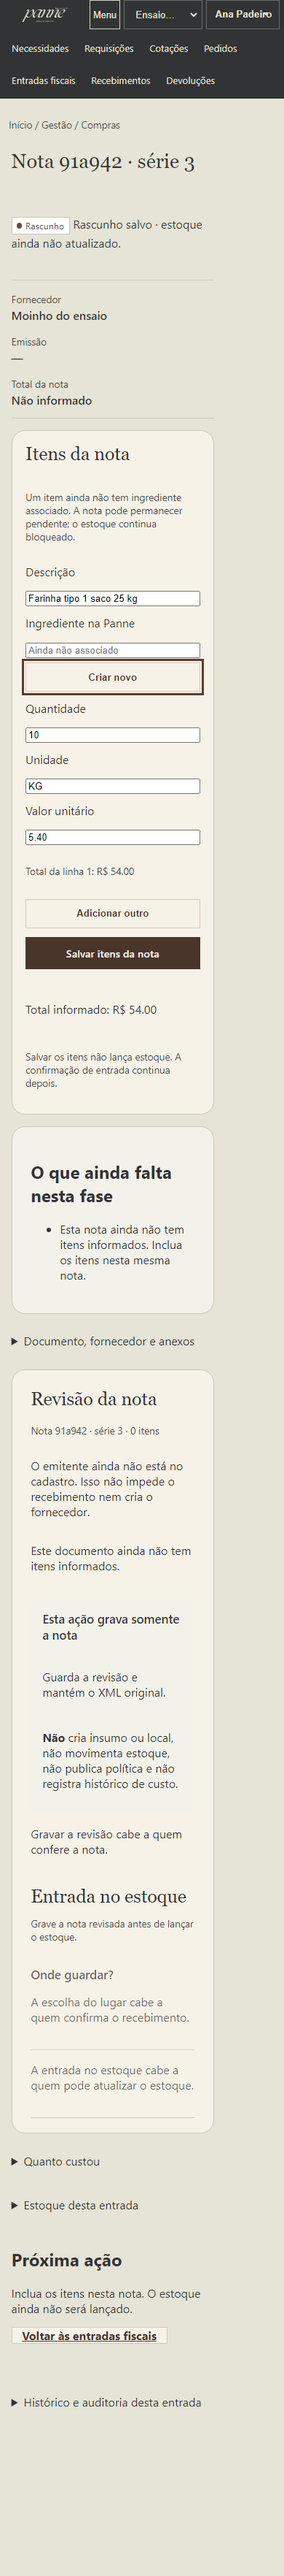
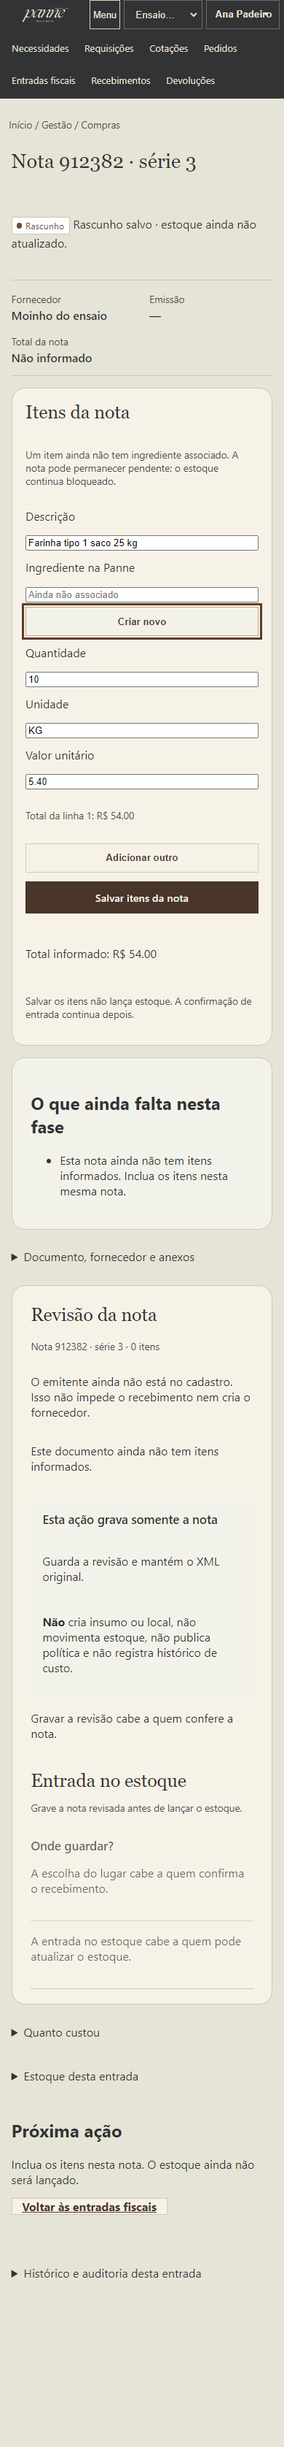
Give form routes without a FAB the full 390 column and keep new-ingredient actions on screen.

diff --git a/panne/frontend/src/styles/app.css b/panne/frontend/src/styles/app.css
@@ -2484,14 +2484,24 @@ tbody tr:focus-visible {
 
 .draft-ingredient-dialog__panel {
   width: min(100%, 28rem);
-  max-height: min(92vh, 40rem);
-  overflow: auto;
-  padding: 1rem 1.05rem 1.1rem;
+  max-height: min(92dvh, 40rem);
+  overflow: hidden;
+  padding: 0;
   background: var(--panne-creme);
   border: 1px solid var(--panne-espresso);
   color: var(--panne-grafite);
+  display: flex;
+  flex-direction: column;
+  min-height: 0;
+}
+
+.draft-ingredient-dialog__body {
+  flex: 1 1 auto;
+  min-height: 0;
+  overflow: auto;
   display: grid;
   gap: 0.75rem;
+  padding: 1rem 1.05rem 0.55rem;
 }
 
 .draft-ingredient-dialog__panel h3 {
@@ -2513,10 +2523,14 @@ tbody tr:focus-visible {
 }
 
 .draft-ingredient-dialog__actions {
+  flex: 0 0 auto;
   display: flex;
   flex-wrap: wrap;
   gap: 0.65rem;
   align-items: center;
+  padding: 0.7rem 1.05rem calc(0.85rem + env(safe-area-inset-bottom, 0px));
+  border-top: 1px solid var(--panne-linha);
+  background: var(--panne-creme);
 }
 
 @media (min-width: 900px) {
@@ -5430,6 +5444,12 @@ tbody tr:focus-visible {
 
 .shell-form > .main {
   padding-bottom: max(7.5rem, calc(env(safe-area-inset-bottom) + 6rem));
+}
+
+/* Sem FAB nesta rota: laterais iguais às do .main (~16 px em 390). Não reserva a coluna do Gigio. */
+.shell.shell-form > .main {
+  padding-left: max(clamp(0.75rem, 4vw, 5rem), env(safe-area-inset-left, 0px));
+  padding-right: max(clamp(0.75rem, 4vw, 5rem), env(safe-area-inset-right, 0px));
 }
 
 @media (max-width: 720px) {

diff --git a/panne/frontend/src/pages/NewIngredientDialog.tsx b/panne/frontend/src/pages/NewIngredientDialog.tsx
@@ -91,6 +91,7 @@ export function NewIngredientDialog({
         aria-labelledby={titleId}
         onClick={(event) => event.stopPropagation()}
       >
+        <div className="draft-ingredient-dialog__body">
         <h3 id={titleId}>Criar ingrediente</h3>
         {fiscalDescription.trim() ? (
           <p className="meta">Descrição nesta nota: {fiscalDescription.trim()}</p>
@@ -179,6 +180,7 @@ export function NewIngredientDialog({
             </ul>
           </div>
         ) : null}
+        </div>
 
         <div className="draft-ingredient-dialog__actions">
           <button type="button" className="ghost" onClick={onCancel}>

diff --git a/panne/frontend/src/insumo-manual-mobile-390.test.tsx b/panne/frontend/src/insumo-manual-mobile-390.test.tsx
@@ -57,6 +57,10 @@ describe("CSS do caminho manual não estica o viewport", () => {
       .match(/\.manual-path[\s\S]*?(?=\n\.estoque-util|\n@media \(max-width: 960px\))/);
     expect(manualCss?.[0] ?? "").not.toMatch(/overflow-wrap:\s*anywhere/);
     expect(css).toMatch(/\.estoque-util[\s\S]*?overflow-wrap:\s*break-word/);
+    expect(css).toMatch(
+      /\.shell\.shell-form\s*>\s*\.main\s*\{[\s\S]*?padding-right:\s*max\(clamp\(0\.75rem,\s*4vw,\s*5rem\)/,
+    );
+    expect(css).toMatch(/\.draft-ingredient-dialog__actions\s*\{[\s\S]*?flex:\s*0\s+0\s+auto/);
   });
 });
 
